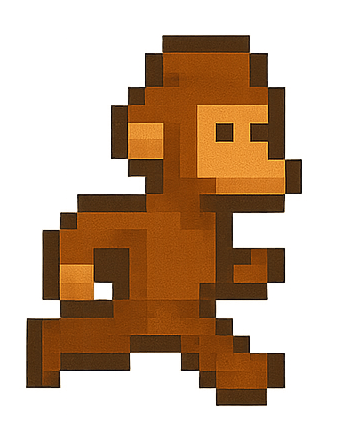
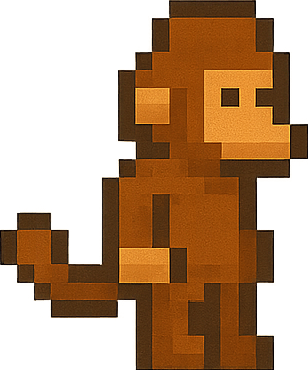
prend en compte le choix du personnage

diff --git a/JungleTrouble/UCChoixPerso.xaml b/JungleTrouble/UCChoixPerso.xaml
@@ -8,17 +8,11 @@
              d:DesignHeight="450" d:DesignWidth="800">
     <Grid Background="#00000000">
         <Label Content="Choisi un Personnage" HorizontalAlignment="Center" Margin="0,50,0,0" VerticalAlignment="Top" Height="37" Width="568" FontSize="20" HorizontalContentAlignment="Center"/>
-        <RadioButton x:Name="rbperso1" Content="" HorizontalAlignment="Left" Margin="155,200,0,0" VerticalAlignment="Top" Height="192" Width="116" Click="rbperso1_Click"/>
+        <RadioButton x:Name="rbperso1" HorizontalAlignment="Left" Margin="155,200,0,0" VerticalAlignment="Top" Height="192" Width="116" Click="rbperso1_Click">
+            <Image Height="192" Source="/Images/Perso2/perso21.png" Stretch="Fill" Width="98"/>
+        </RadioButton>
         <RadioButton x:Name="rbperso2" HorizontalAlignment="Right" Margin="0,200,155,0" VerticalAlignment="Top" Height="192" Width="118" Background="White" Click="rbperso2_Click">
-            <Image Height="192" Source="/Images/Perso1/perso13.png" Stretch="Fill" Width="98" RenderTransformOrigin="0.5,0.5">
-                <Image.RenderTransform>
-                    <TransformGroup>
-                        <ScaleTransform ScaleX="-1"/>
-                        <SkewTransform/>
-                        <RotateTransform/>
-                        <TranslateTransform/>
-                    </TransformGroup>
-                </Image.RenderTransform>
+            <Image Height="192" Source="/Images/Perso1/perso11.png" Stretch="Fill" Width="98" RenderTransformOrigin="0.5,0.5">
             </Image>
         </RadioButton>
         <Button x:Name="butJouer" Content="Grimper" HorizontalAlignment="Center" VerticalAlignment="Center" Height="60" Width="98" FontSize="20" VerticalContentAlignment="Center" Margin="0,75,0,0" IsEnabled="False"/>

diff --git a/JungleTrouble/UCJeu.xaml b/JungleTrouble/UCJeu.xaml
@@ -11,7 +11,7 @@
             <RowDefinition Height="20"/>
             <RowDefinition Height="*"/>
         </Grid.RowDefinitions>
-        <Menu x:Name="MenuItem1" Height="20" Width="800" Grid.Row="0" VerticalAlignment="Top" HorizontalAlignment="Left">
+        <Menu x:Name="MenuItem2" Height="20" Width="800" Grid.Row="0" VerticalAlignment="Top" HorizontalAlignment="Left">
             <MenuItem x:Name="MenuItem" Header="_Parametre" Click="MenuItem_Click" VerticalAlignment="Top" HorizontalAlignment="Left"/>
         </Menu>
         <Canvas Grid.Row="1">
@@ -19,7 +19,7 @@
             <Image Height="20" Canvas.Left="0" Source="/Images/placeholder.png" Stretch="Fill" Canvas.Bottom="107.5" Width="700"/>
             <Image Height="20" Canvas.Left="100" Source="/Images/placeholder.png" Stretch="Fill" Canvas.Bottom="215" Width="700"/>
             <Image Height="20" Canvas.Left="0" Source="/Images/placeholder.png" Stretch="Fill" Canvas.Bottom="322.5" Width="700"/>
-            <Image x:Name="imgPerso"  Height="30" Canvas.Left="251" Source="/Images/placeholder2.png" Stretch="Fill" Canvas.Bottom="400" Width="18"/>
+            <Image x:Name="imgPerso"  Height="40" Canvas.Left="251" Source="/Images/Perso1/perso11.png" Stretch="Fill" Canvas.Bottom="400" Width="24"/>
             <Image x:Name="imgTonneau" Height="30" Canvas.Left="15" Source="/Images/placeholder3.png" Stretch="Fill" Canvas.Bottom="400" Width="30"/>
 
         </Canvas>

diff --git a/JungleTrouble/UCJeu.xaml.cs b/JungleTrouble/UCJeu.xaml.cs
@@ -22,8 +22,8 @@ namespace JungleTrouble
     {
         private DispatcherTimer minuterie;
         private double GRAVITY = 0.98;
-        private double JUMPSTRENGTH = 50;
-        private double WIDTHPERSO = 18, HEIGHTPERSO = 30;
+        private double JUMPSTRENGTH = 25;
+        private double WIDTHPERSO = 24, HEIGHTPERSO = 40;
         private double WHIDTHTONNEAU = 30, HEIGTHTONNEAU = 30;
         private bool verif = false;
         private string direction = "right";
@@ -33,11 +33,15 @@ namespace JungleTrouble
         private static readonly Rect hitboxPlateforme1 = new Rect(0, 107.5, 700, 20);
         private static readonly Rect hitboxPlateforme2 = new Rect(100, 215, 700, 20);
         private static readonly Rect hitboxPlateforme3 = new Rect(0, 322.5, 700, 20);
+
         public UCJeu()
         {
+            
             InitializeComponent();
             InitializeTimer();
             InitializeImages();
+            string nomFichierImage = $"pack://application:,,,/Images/Perso{MainWindow.Perso}/perso{MainWindow.Perso}1.png";
+            imgPerso.Source = new BitmapImage(new Uri(nomFichierImage));
 
         }
 
@@ -46,6 +50,7 @@ namespace JungleTrouble
             ParametreWindow parametreWindow = new ParametreWindow();
             bool? rep = parametreWindow.ShowDialog();
         }
+        
 
         private void InitializeTimer()
         {
@@ -94,25 +99,28 @@ namespace JungleTrouble
             Application.Current.MainWindow.KeyDown += canvasJeu_KeyDown;
         }
 
-      
 
+        private int count = 0;
+        private int countimage = 0;
         private void canvasJeu_KeyDown(object sender, KeyEventArgs e)
         {
             double objX = Canvas.GetLeft(imgPerso);
             double objY = Canvas.GetBottom(imgPerso);
             Rect hitboxPerso = new Rect(objX, objY, WIDTHPERSO, HEIGHTPERSO);
             if (e.Key == Key.Right && Canvas.GetLeft(imgPerso) < 764)
-
+            {
                 Canvas.SetLeft(imgPerso, Canvas.GetLeft(imgPerso) + 5);
+            }
             if (e.Key == Key.Left && Canvas.GetLeft(imgPerso) > 0)
                 Canvas.SetLeft(imgPerso, Canvas.GetLeft(imgPerso) - 5);
             if (e.Key == Key.Up && (hitboxPerso.IntersectsWith(hitboxPlateforme0) || hitboxPerso.IntersectsWith(hitboxPlateforme1) || hitboxPerso.IntersectsWith(hitboxPlateforme2) || hitboxPerso.IntersectsWith(hitboxPlateforme3)))
                 Canvas.SetBottom(imgPerso, objY + JUMPSTRENGTH);
+
         }
 
         //private void Saut(Rect hitboxPerso)
         //{
-            
+
         //}
 
         private void mouvetonneaux(double pxmv)
@@ -128,6 +136,8 @@ namespace JungleTrouble
 
             else if (Canvas.GetLeft(imgTonneau) <= 0)
             {
+                if (Canvas.GetBottom(imgTonneau) == 20)
+                    Canvas.SetBottom(imgTonneau, 400);
                 if (verif == false)
                 {
                     direction = "right";
@@ -165,7 +175,7 @@ namespace JungleTrouble
         private void InitializeImages()
         {
             
-            for (int i = 0; i < 3; i++)
+            for (int i = 0; i < 2; i++)
             {
                 Uri path = new Uri($"pack://application:,,,/Images/Perso1/perso1{i + 1}.png");
                 persos1[i] = new BitmapImage(path);

diff --git a/JungleTrouble/UCChoixPerso.xaml.cs b/JungleTrouble/UCChoixPerso.xaml.cs
@@ -28,10 +28,12 @@ namespace JungleTrouble
         private void rbperso1_Click(object sender, RoutedEventArgs e)
         {
             butJouer.IsEnabled = true;
+            MainWindow.Perso = "2";
         }
         private void rbperso2_Click(object sender, RoutedEventArgs e)
         {
             butJouer.IsEnabled = true;
+            MainWindow.Perso = "1";
         }
         private void MenuItem_Click(object sender, RoutedEventArgs e)
         {

diff --git a/JungleTrouble/MainWindow.xaml.cs b/JungleTrouble/MainWindow.xaml.cs
@@ -42,6 +42,11 @@ namespace JungleTrouble
         {
             UCJeu uc = new UCJeu();
             ZoneJeu.Content = uc;
+            //uc.RetourMenue.butoui.Click += AfficheDemarrage;
         }
+
+        public static string Perso { get; set; }
+
+
     }
 }
